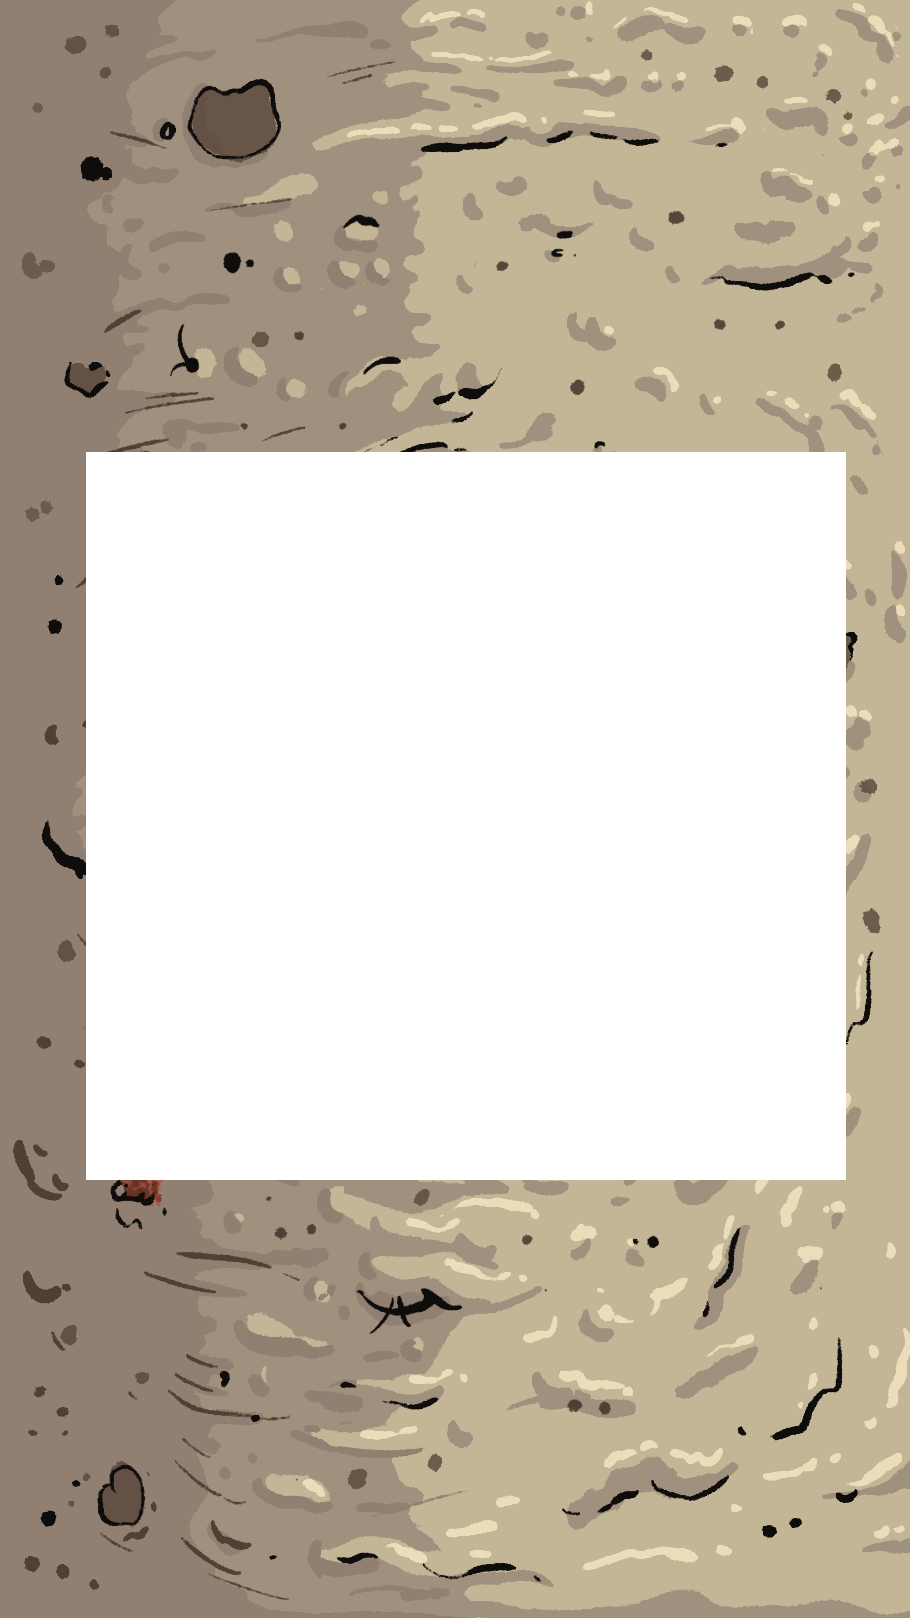
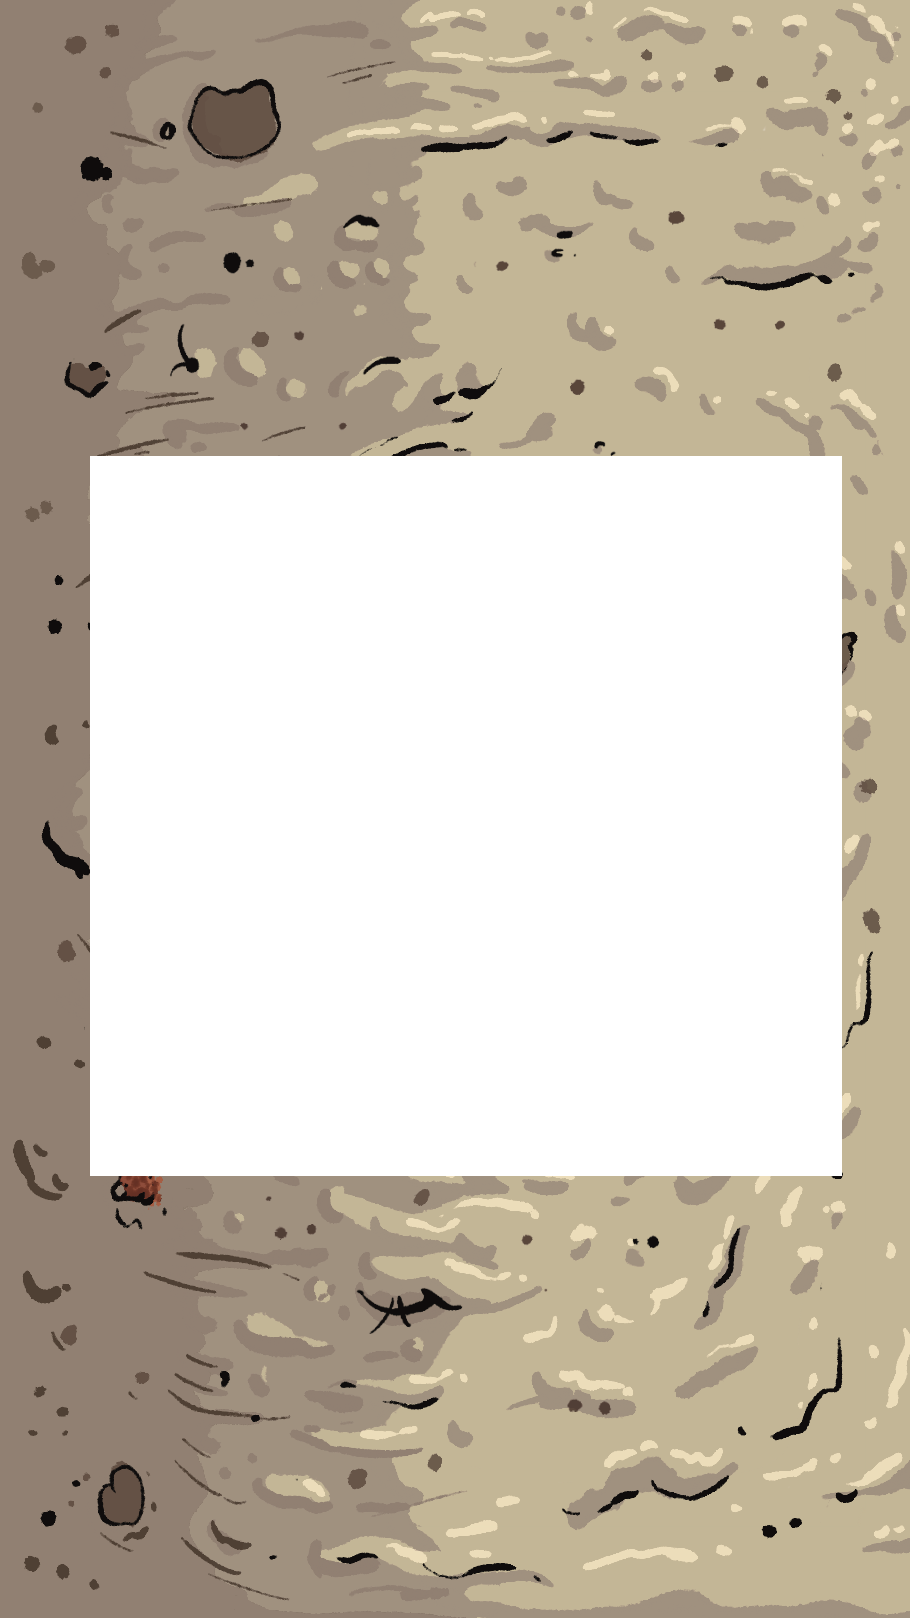
Add files via upload

Changed region(s): [[0.0923, 0.2781, 0.1231, 0.7417], [0.9231, 0.2781, 0.9538, 0.7108]]

diff --git a/index.html b/index.html
@@ -321,7 +321,7 @@
       <img class="eye-pupil" id="eyePupil" src="assets/pupil.png?v=4" alt="">
     </div>
     <div class="eye-content" id="eyeContent"></div>
-    <img class="eye-art" src="assets/eye-bg.webp?v=4" alt="">
+    <img class="eye-art" src="assets/eye-bg.webp?v=5" alt="">
     <canvas class="eye-lid" id="eyeLid" width="760" height="728"></canvas>
     <img class="textbox-art" src="assets/textbox.png?v=4" alt="">
     <textarea class="type-field question-pos" id="questionInput" rows="2" enterkeyhint="done" placeholder="Question"
